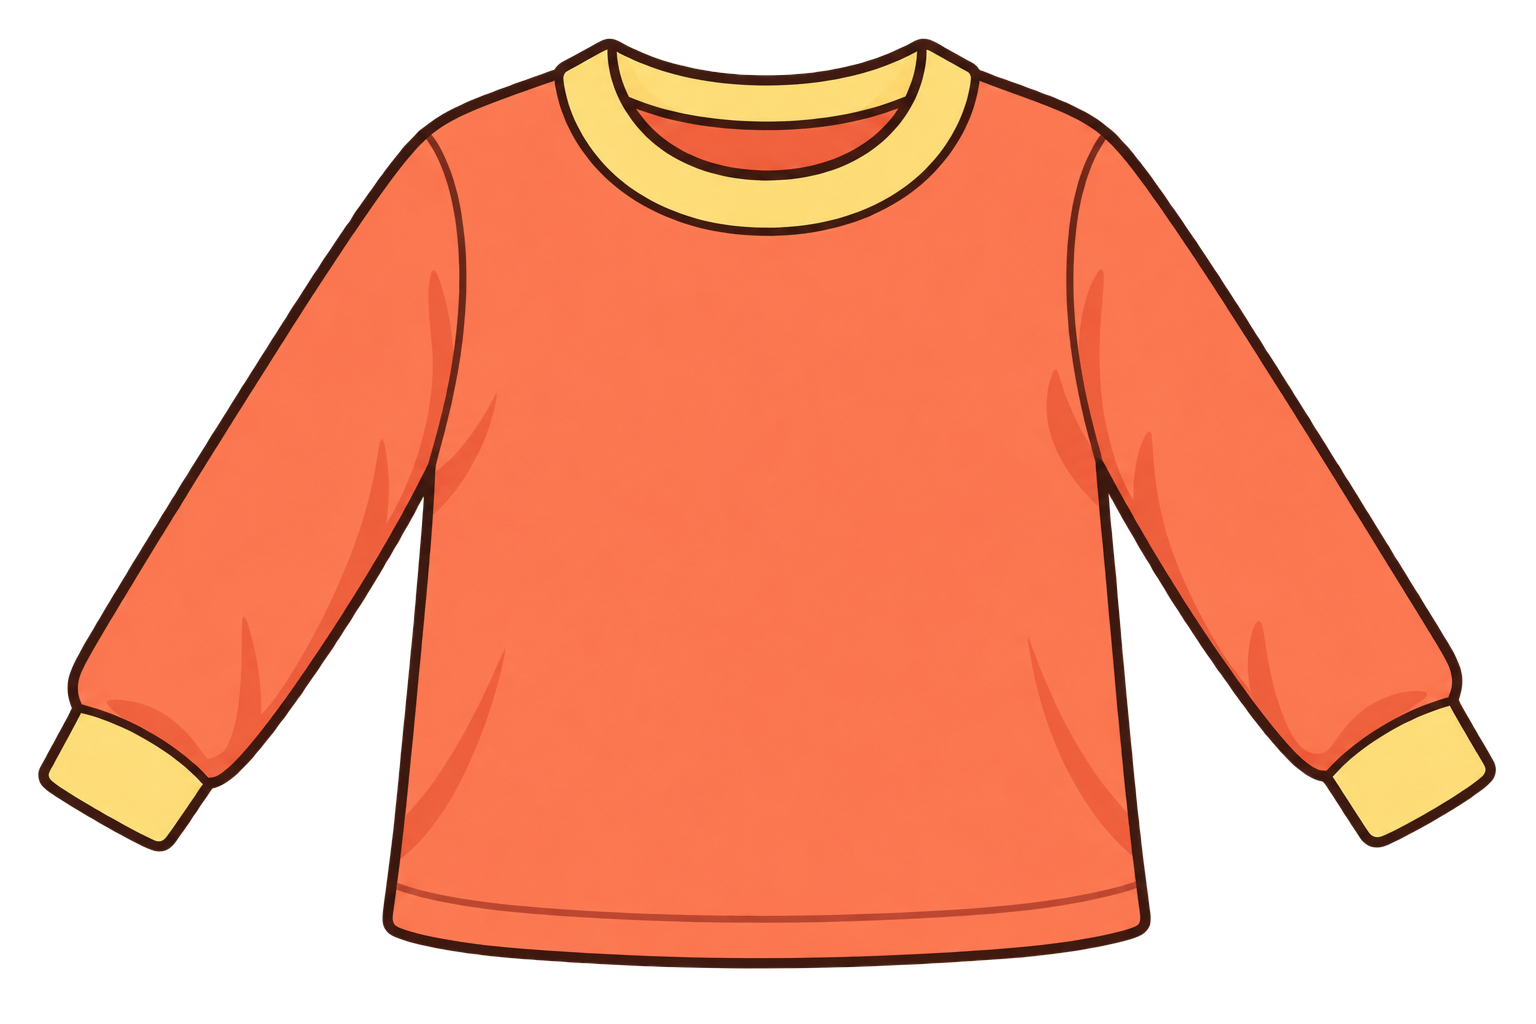
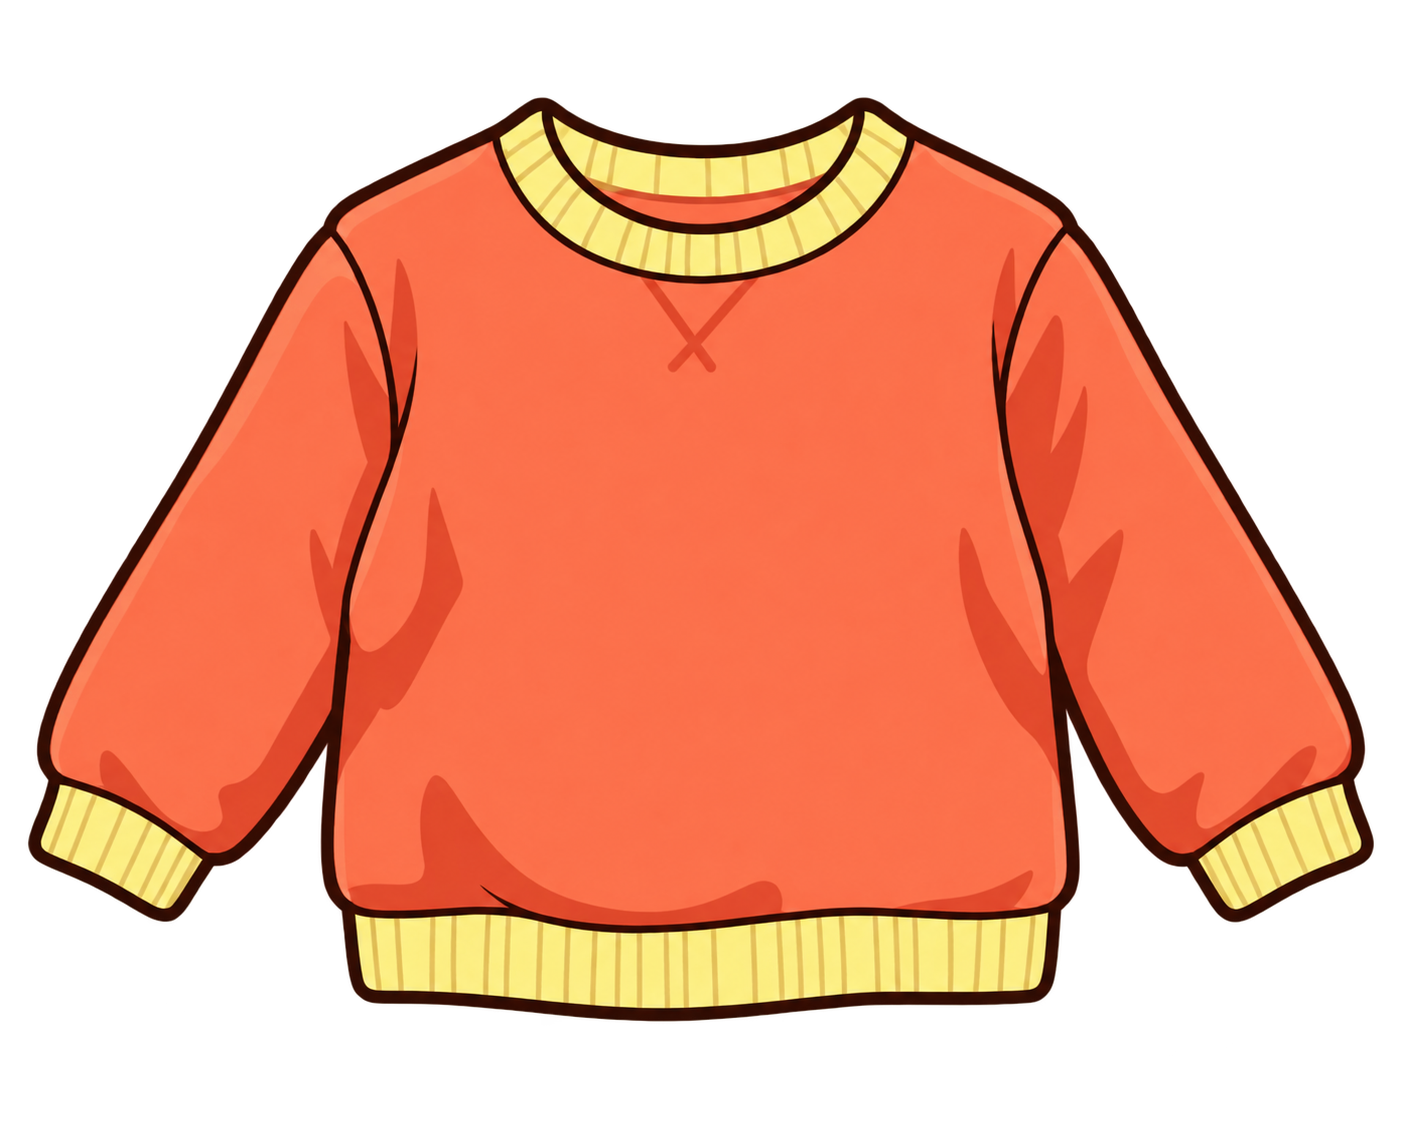
修复卡通素材透明边缘

Changed region(s): [[0.0, 0.0312, 0.9815, 0.9688]]

diff --git a/.superpowers/sdd/2026-09-14-new-target-behaviors/task-2-report.md b/.superpowers/sdd/2026-09-14-new-target-behaviors/task-2-report.md
@@ -13,11 +13,11 @@
 | `assets/laundry/laundry-room.png` | 原创明亮洗衣房：圆门洗衣机、浅木橱柜、蓝绿色水槽、水龙头、洗衣篮和少量整齐用品沿边缘分布，中央留白。 |
 | `assets/laundry/shirt-dirty.png` | 单件正面平铺的青蓝绿色长袖儿童汗衫，带少量浅棕泥点和污渍。 |
 | `assets/laundry/shirt-clean.png` | 以脏汗衫为内容参考，保留颜色、比例、圆领、长袖和描边，只移除全部泥点和污渍。 |
-| `assets/laundry/wash-basin.png` | 单个浅蓝绿色塑料洗衣水盆，略俯视正面三分之二视角，椭圆盆口和厚实盆沿，盆内为空；针对初稿追加“移除外部光晕、投影和半透明额外形状”的定向提示。 |
+| `assets/laundry/wash-basin.png` | 以边缘干净的透明雨伞素材作锚点，替换为单个浅蓝绿色塑料洗衣水盆；水盆和深棕轮廓是唯一非透明像素，轮廓外立即为 alpha 0，禁止投影、光晕、棕雾和半透明外部像素。 |
 | `assets/laundry/detergent.png` | 单瓶圆润橙黄色洗衣液，蓝绿色按压泵头，瓶身无任何文字、标签或商标。 |
 | `assets/folding/folding-table.png` | 温暖整洁的衣物整理角落：宽大的浅木折衣桌占据中央，边缘有抽屉柜、衣架和衣篮。 |
-| `assets/folding/sweatshirt-flat.png` | 单件正面完全平铺的珊瑚橙色长袖儿童汗衫，浅黄色圆领和袖口，无图案。 |
-| `assets/folding/sweatshirt-folded.png` | 以平铺汗衫为内容参考，保留珊瑚橙衣身、浅黄色领口和袖口，只变为整齐的横向折好状态。 |
+| `assets/folding/sweatshirt-flat.png` | 以边缘干净的青蓝色净卫衣为编辑目标，只改为珊瑚橙衣身、浅黄色圆领和袖口；保留其硬边透明画布，轮廓外 alpha 0。 |
+| `assets/folding/sweatshirt-folded.png` | 以新版平铺卫衣为内容参考，保留珊瑚橙衣身、浅黄色领口和硬边透明处理，只改为整齐的横向折好状态。 |
 | `assets/umbrella/umbrella-room.png` | 原创温暖家庭玄关：鞋柜、挂钩、伞桶、整理台和窗沿边缘摆放，中央互动区不放雨伞。 |
 | `assets/umbrella/umbrella-open.png` | 单把完整张开的儿童折叠雨伞：六片深蓝伞布、橙黄色圆头弯柄、居中伞杆。 |
 | `assets/umbrella/umbrella-closed.png` | 以前一张开伞为内容参考，保留深蓝六片伞布、灰色伞杆和橙黄色弯柄，只将伞面收成细长闭合伞形。 |
@@ -31,12 +31,18 @@
 
 ## 尺寸、alpha 与透明角点
 
-`sips -g pixelWidth -g pixelHeight -g hasAlpha assets/laundry/*.png assets/folding/*.png assets/umbrella/*.png` 结果如下：三张底图 `laundry-room.png`、`folding-table.png`、`umbrella-room.png` 均为 2048×1152，背景无 alpha；九张物品均为 `hasAlpha: yes`，尺寸分别为脏衣 1402×1122、净衣 1402×1122、水盆 1536×1024、洗衣液 1254×1254、平铺衣 1536×1024、折好衣 1536×1024、开伞 1254×1254、闭伞 1254×1254、折好伞 1254×1254。附加读取 PNG RGBA 数据确认九张物品四个角的 alpha 都是 `[0, 0, 0, 0]`。
+`sips -g pixelWidth -g pixelHeight -g hasAlpha assets/laundry/*.png assets/folding/*.png assets/umbrella/*.png` 结果如下：三张底图 `laundry-room.png`、`folding-table.png`、`umbrella-room.png` 均为 2048×1152，背景无 alpha；九张物品均为 `hasAlpha: yes`，尺寸分别为脏衣 1402×1122、净衣 1402×1122、水盆 1254×1254、洗衣液 1254×1254、平铺衣 1402×1122、折好衣 1402×1122、开伞 1254×1254、闭伞 1254×1254、折好伞 1254×1254。附加读取 PNG RGBA 数据确认九张物品四个角的 alpha 都是 `[0, 0, 0, 0]`。
 
 ## 视觉检查
 
-使用图像查看工具逐张打开最终路径。三张底图均为横向留白场景，中心互动区域清晰、没有人物和文字。脏/净衣服、平铺/折好衣服和开/闭/卷好雨伞的状态对保持了颜色与轮廓的连续性；物品均为单主体、深棕粗描边、无白色方框、无文字、无裁边或多余物体。水盆首次生成出现外部柔光，已做一次针对性重出并复验，最终版本具备透明四角与完整主体边距。
+使用图像查看工具逐张打开最终路径。三张底图均为横向留白场景，中心互动区域清晰、没有人物和文字。脏/净衣服、平铺/折好衣服和开/闭/卷好雨伞的状态对保持了颜色与轮廓的连续性；物品均为单主体、深棕粗描边、无白色方框、无文字、无裁边或多余物体。
 
 ## 改动文件、自查与疑虑
 
-新增 `assets/laundry/`、`assets/folding/`、`assets/umbrella/` 下的 12 个 PNG；修改 `tests/new-target-behaviors.test.js`；新增 `dev-logs/2026-09-15.md` 与本报告。已运行聚焦测试、尺寸/alpha 检查、透明角点检查和 `git diff --check`。疑虑：生成器为部分物品透明像素保留了不可见的 RGB 颜色数据，但四角 alpha 均为 0，浏览器合成时不会显示；后续场景接入时仍建议在 iPad Safari 上看一次实际叠加边缘。
+新增 `assets/laundry/`、`assets/folding/`、`assets/umbrella/` 下的 12 个 PNG；修改 `tests/new-target-behaviors.test.js`；新增 `dev-logs/2026-09-15.md` 与本报告。已运行聚焦测试、尺寸/alpha 检查、透明角点检查和 `git diff --check`。疑虑：后续场景接入时仍建议在 iPad Safari 上看一次实际叠加边缘。
+
+## Fix round 1：清除三张物品外部光晕
+
+审查发现 `wash-basin.png`、`sweatshirt-flat.png` 和 `sweatshirt-folded.png` 在黑底下可见深褐色外部柔光。未使用 Python 或其他图像编辑工具：三张均通过内置 `image_gen` 重出或编辑。平铺卫衣以无光晕的 `shirt-clean.png` 为编辑锚点，只改为珊瑚橙与浅黄色配色；折好卫衣以新版平铺卫衣为内容参考，只改变折叠状态；水盆以边缘干净的 `umbrella-open.png` 为编辑锚点替换为水盆。三条最终提示词都明确规定：“物体和深棕轮廓为唯一非透明像素；轮廓外立即为 alpha 0；无投影、无外部光晕、无阴影、无半透明棕雾、无裁边”。
+
+对三张最终 PNG 逐张使用图像查看工具进行黑底检查，未见轮廓外棕雾；再用 `sips -s format jpeg <asset>.png --out /private/tmp/<preview>.jpg` 的浅底预览逐张检查，未见白框或棕色柔光。该 JPEG 仅作为查看透明合成效果的临时预览，不替代或修改最终 PNG。覆盖检查命令为：`sips -g pixelWidth -g pixelHeight -g hasAlpha assets/laundry/*.png assets/folding/*.png assets/umbrella/*.png`、`node --test tests/new-target-behaviors.test.js` 和 `git diff --check HEAD`；其最终输出确认三张底图仍是 2048×1152、九张物品均有 alpha 且长边至少 1024px，聚焦测试 5 passed、0 failed，diff 检查无输出。
